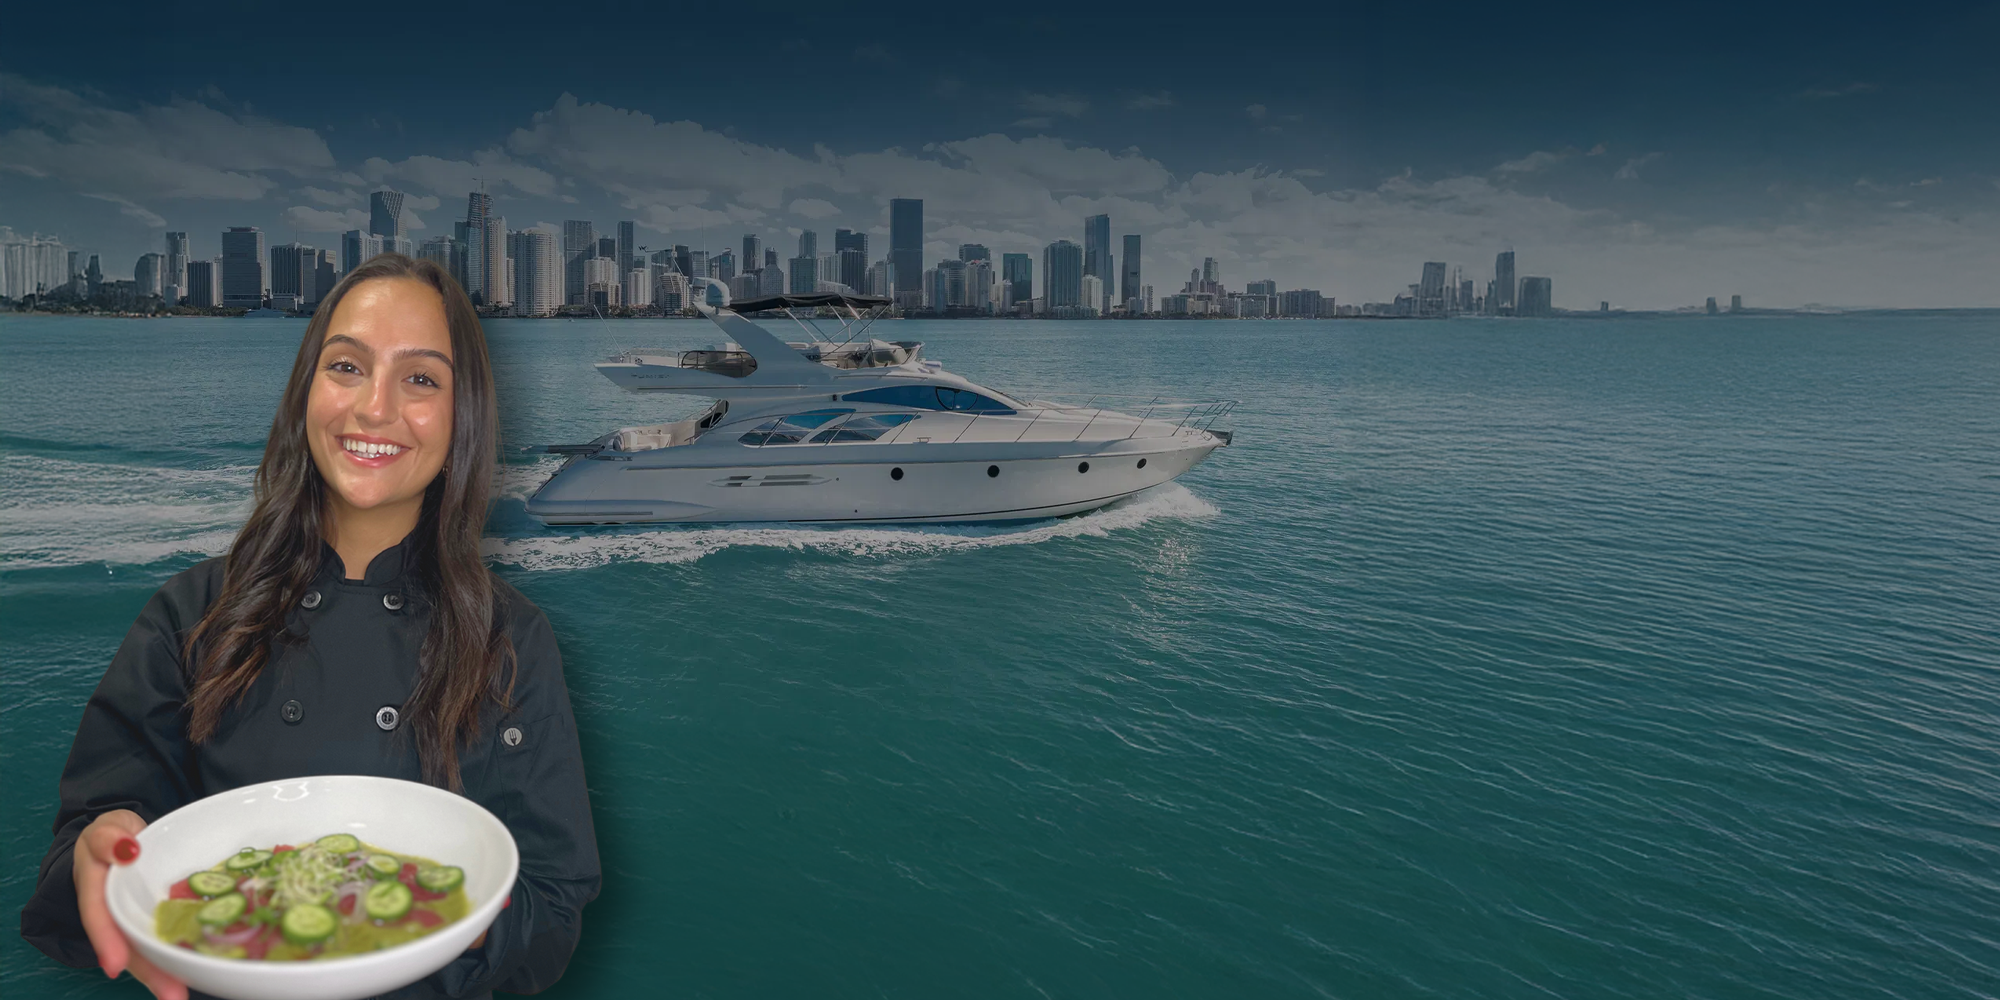
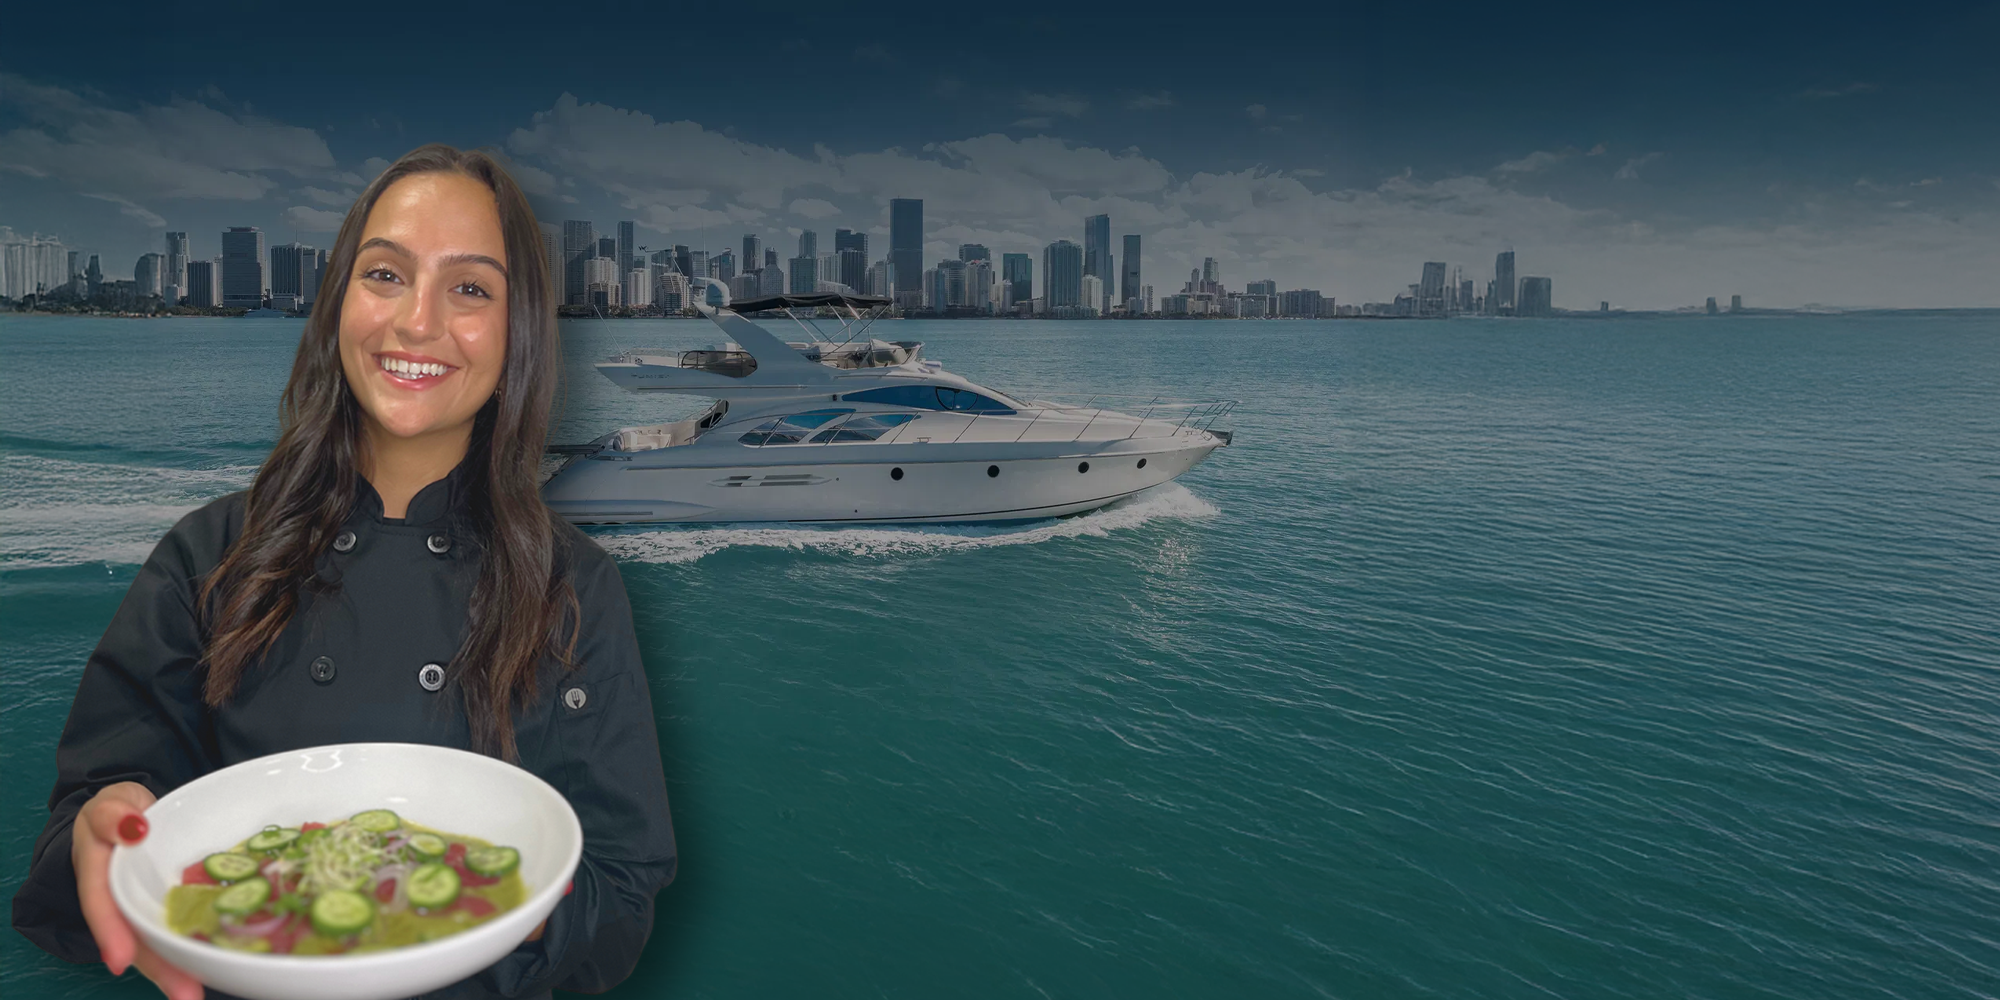
k

Changed region(s): [[0.0, 0.124, 0.372, 1.0], [0.248, 0.992, 0.279, 1.0]]

diff --git a/index.html b/index.html
@@ -1018,7 +1018,7 @@
               <div class="review-star"></div>
             </div>
           </div>
-          <a style="pointer-events: none; cursor: default; opacity: 0.6;" class="button-7 w-inline-block w-clearfix"><img src="images/pencil-white.svg" alt="" class="button-icon-2">
+          <a onclick="return false;" style="cursor: default; opacity: 0.6;" class="button-7 w-inline-block w-clearfix"><img src="images/pencil-white.svg" alt="" class="button-icon-2">
             <div class="text-left">Leave a Review</div>
           </a>
         </div>
@@ -1225,7 +1225,7 @@
       </div>
       <div class="bottom-footer-block white-footer-block w-clearfix">
         <p class="bottom-footer-paragraph dark">Copyright © 2025 Personal Chef Renata</p>
-        <p class="bottom-footer-paragraph right dark">Website design by <a target="_blank" href="http://www.getavldesign.com" class="bottom-footer-link dark">Kolossmedia</a>
+        <p class="bottom-footer-paragraph right dark">Website design by <a target="_blank" href="http://www.getavldesign.com" class="bottom-footer-link dark">PrimeCapture</a>
         </p>
       </div>
     </div>
